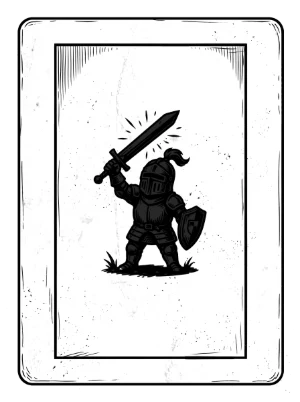
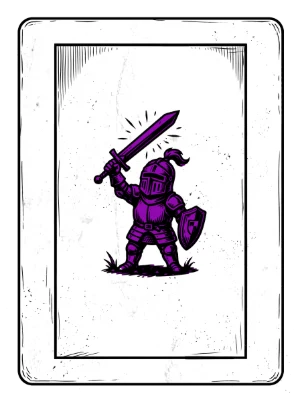
Lançalotte novo, artes de compra por baralho e Sumonar roxo, carta Dado adicional e cartas de ação na fase de ataque

Changed region(s): [[0.3, 0.2687, 0.69, 0.6866], [0.6, 0.3881, 0.63, 0.4179]]

diff --git a/js/interface.js b/js/interface.js
@@ -156,7 +156,8 @@ window.SS = window.SS || {};
     ui.destino = null;
     enviarJogada({ t: 'acao', a: acao });
     M.aplicarAcao(jogo, acao);
-    render();
+    if (ui.voltarAoAtaque && jogo.vencedor == null) voltarAoAtaque();
+    else render();
     ui.vooDe = null;
     if (jogo.vencedor != null) fimDeJogo();
   }
@@ -354,6 +355,7 @@ window.SS = window.SS || {};
       return;
     }
     if (ev.target.closest('#modal') || (ui && ui.ignorarClique)) return;
+    if (ui && ui.ignorarProximoClique) { ui.ignorarProximoClique = false; return; }
     // Refletir: trocar o par (cartas roxas da mão) ou escolher o atacante com a seta roxa.
     if (jogo && ui.reflexoModo) {
       const parEl = ev.target.closest('[data-par]');
@@ -369,6 +371,7 @@ window.SS = window.SS || {};
       // Clique num lugar vazio do tabuleiro: desfaz a seleção de cartas da mão.
       if (jogo && !ui.pend && (ui.sel.length || ui.destino != null) && ev.target.closest('#mesa') && !ev.target.closest('#cartas-acao, #painel')) {
         ui.sel = []; ui.destino = null;
+        if (ui.voltarAoAtaque) return voltarAoAtaque();
         render();
       }
       return;
@@ -403,7 +406,19 @@ window.SS = window.SS || {};
 
   function aoPressionar(ev) {
     if (ev.button !== 0 || !jogo || ev.target.closest('#modal')) return;
+    if (ui) ui.ignorarProximoClique = false; // (o clique depois de fechar uma mira pode nem chegar a acontecer)
     const naMao = ev.target.closest('[data-mao]');
+    // Mirando o Dado adicional: o clique escolhe o Senhor(a); fora dele, desiste.
+    if (ui.miraDado) {
+      if (ev.target.closest('[data-acao]')) { ui.miraDado = null; return; }
+      ev.preventDefault();
+      ui.ignorarProximoClique = true;
+      const loc = unidadeEm(ev.target);
+      if (loc && podeReceberDado(loc.u.uid)) return darDado(loc.u.uid);
+      ui.miraDado = null;
+      return render();
+    }
+    if (naMao && jogo.fase === 'ataque' && humanoAtaca() && ui.miraRei == null && !ui.pend) entrarAcoesNoAtaque();
     if (naMao && jogo.fase === 'principal' && controle(jogo.vez) === 'humano' && !ui.ocupado && !ui.pend) {
       ev.preventDefault();
       return iniciarArrasto(ev, naMao.dataset.mao);
@@ -495,19 +510,82 @@ window.SS = window.SS || {};
       return ui.aoContinuar();
     }
     if (ev.key !== 'Escape' || !jogo) return;
-    ui.sel = []; ui.pend = null; ui.atacanteSel = null; ui.bloqSel = null; ui.mira = null; ui.destino = null; ui.reflexoModo = null; ui.miraRei = null;
+    ui.sel = []; ui.pend = null; ui.atacanteSel = null; ui.bloqSel = null; ui.mira = null; ui.destino = null; ui.reflexoModo = null; ui.miraRei = null; ui.miraDado = null;
+    if (ui.voltarAoAtaque) return voltarAoAtaque();
     render();
   }
 
   function clicarMao(id) {
+    if (jogo.fase === 'ataque' && humanoAtaca() && ui.miraRei == null) entrarAcoesNoAtaque();
     if (jogo.fase !== 'principal' || controle(jogo.vez) !== 'humano') return;
     ui.pend = null;
     const k = ui.sel.indexOf(id);
     if (k >= 0) ui.sel.splice(k, 1);
     else ui.sel.push(id);
     if (!ui.sel.length) ui.destino = null;
+    if (!ui.sel.length && ui.voltarAoAtaque) return voltarAoAtaque();
     // Uma figura (ou Ás) já está esperando no campo: o número clicado completa a jogada.
     if (ui.destino != null && ui.sel.length === 2 && jogarNoDestino()) return;
+    render();
+  }
+
+  // Cartas de ação também valem depois do "Preparar ataque" (antes de confirmar): o jogo volta por um
+  // instante às ações passivas (no online o amigo ainda nem soube do ataque) e, feita a jogada ou
+  // desfeita a seleção, retorna ao ataque com os ataques que você já tinha marcado.
+  function entrarAcoesNoAtaque() {
+    if (jogo.fase !== 'ataque') return;
+    M.voltarAoPrincipal(jogo);
+    ui.voltarAoAtaque = true;
+    ui.atacanteSel = null; ui.mira = null;
+  }
+
+  function voltarAoAtaque() {
+    if (!ui.voltarAoAtaque) return render();
+    ui.voltarAoAtaque = false;
+    ui.sel = []; ui.pend = null; ui.destino = null;
+    if (jogo.fase !== 'principal' || jogo.vencedor != null) return render();
+    M.aplicarAcao(jogo, { tipo: 'atacar' });
+    // A jogada pode ter tirado um atacante (sacrifício), o alvo do Rei ou um Ouros reservado.
+    const aptos = new Set(M.atacantesAptos(jogo)), pool = M.ourosDisponiveis(jogo, jogo.vez).slice();
+    ui.ataques = ui.ataques.filter(a => aptos.has(a.atacante));
+    for (const a of ui.ataques) {
+      if (a.alvo !== 'jogador' && !M.alvosPossiveis(jogo, a.atacante).includes(a.alvo)) a.alvo = 'jogador';
+      a.ouros = a.ouros.filter(o => { const k = pool.indexOf(o); if (k < 0) return false; pool.splice(k, 1); return true; });
+    }
+    render();
+  }
+
+  // Carta "Dado adicional": com um Ouros selecionado, uma seta sai dele até o Senhor(a) que vai rolar
+  // 1 dado a mais. Escolhido, o jogo vai para o ataque (se ainda não estava) e marca o ataque dele.
+  function iniciarDadoAdicional() {
+    const id = ui.sel[0];
+    if (!id) return;
+    const el = id.startsWith('TOKEN#') ? $('[data-token="' + id.slice(6) + '"]') : $('[data-mao="' + id + '"]');
+    ui.miraDado = { ouro: id.startsWith('TOKEN') ? 'TOKEN' : id, de: centroDe(el) || { x: 800, y: 700 } };
+    ui.mouse = Object.assign({}, ui.miraDado.de);
+    render();
+  }
+
+  const podeReceberDado = uid => {
+    const l = M.localizar(jogo, uid);
+    return !!l && l.p === jogo.vez && (jogo.fase === 'ataque' ? M.atacantesAptos(jogo).includes(uid) : M.podeAtacar(jogo, l.p, l.i));
+  };
+
+  function darDado(uid) {
+    const ouro = ui.miraDado.ouro;
+    ui.miraDado = null;
+    if (jogo.fase === 'principal') {
+      if (ui.voltarAoAtaque) voltarAoAtaque();
+      else {
+        ui.sel = []; ui.pend = null; ui.ataques = [];
+        M.aplicarAcao(jogo, { tipo: 'atacar' });
+      }
+    }
+    ui.sel = [];
+    if (!M.atacantesAptos(jogo).includes(uid)) return render();
+    if (!ui.ataques.some(a => a.atacante === uid)) adicionarAtaque(uid, 'jogador');
+    const at = ui.ataques.find(a => a.atacante === uid);
+    if (at && ourosLivres().includes(ouro)) at.ouros.push(ouro);
     render();
   }
 
@@ -645,12 +723,16 @@ window.SS = window.SS || {};
     switch (nome) {
       case 'cancelar':
         ui.sel = []; ui.pend = null; ui.atacanteSel = null; ui.bloqSel = null; ui.destino = null;
+        if (ui.voltarAoAtaque) return voltarAoAtaque();
         return render();
+      case 'dado-adicional':
+        return iniciarDadoAdicional();
       case 'tipo':
         return iniciarPendente(arg);
       case 'ir-ataque':
         // No online o amigo só fica sabendo do ataque quando ele é confirmado (a mensagem "declarar"
         // já leva para a fase de ataque), então dá para voltar atrás sem desencontrar as duas telas.
+        if (ui.voltarAoAtaque) return voltarAoAtaque(); // já estava no ataque: mantém os ataques marcados
         ui.sel = []; ui.pend = null; ui.ataques = [];
         M.aplicarAcao(jogo, { tipo: 'atacar' });
         return render();
@@ -774,7 +856,7 @@ window.SS = window.SS || {};
   }
 
   const mirandoPoder = () => !!(ui && ui.pend && ui.pend.tipo === 'poder' && passoAtual() === 'alvo');
-  const mirandoSeta = () => !!(ui && ((ui.reflexoModo && ui.reflexoModo.etapa === 'alvo') || mirandoPoder() || (ui.miraRei != null && humanoAtaca())));
+  const mirandoSeta = () => !!(ui && ((ui.reflexoModo && ui.reflexoModo.etapa === 'alvo') || mirandoPoder() || ui.miraDado || (ui.miraRei != null && humanoAtaca())));
 
   function desenharSetas() {
     const svg = $('#setas');
@@ -803,6 +885,7 @@ window.SS = window.SS || {};
     }
     // Seta presa no mouse: roxa ao escolher o ataque a refletir; na cor do poder ao escolher o alvo do Palhaço.
     if (ui.mouse && ui.reflexoModo && ui.reflexoModo.etapa === 'alvo') setas.push({ de: ORIGEM_REFLEXO, para: ui.mouse, cor: 'mira-reflexo', viva: true });
+    if (ui.mouse && ui.miraDado) setas.push({ de: ui.miraDado.de, para: ui.mouse, cor: 'mira-ataque', viva: true });
     if (ui.mouse && mirandoPoder()) {
       const de = centroDe($(`#info-${jogo.vez} .poder-naipe`));
       if (de) setas.push({ de, para: ui.mouse, cor: 'mira-poder', viva: true });
@@ -1495,7 +1578,7 @@ window.SS = window.SS || {};
   function renderJogador(p, alvos) {
     const j = jogo.jogadores[p], cor = corDe(p), teto = M.tetoCura(j), pal = palhacoDe(p);
     const quem = controle(p) === 'humano' ? t('ui.voce') : controle(p) === 'remoto' ? t('ui.amigo') : `bot · ${NOME_NIVEL[cfg.nivel]}`;
-    const podeJogar = controle(p) === 'humano' && jogo.vez === p && jogo.fase === 'principal' && !ui.ocupado;
+    const podeJogar = controle(p) === 'humano' && jogo.vez === p && (jogo.fase === 'principal' || jogo.fase === 'ataque') && !ui.ocupado;
     let tokens = '';
     for (let k = 0; k < j.tokens; k++) {
       tokens += `<button class="token${ui.sel.includes('TOKEN#' + k) ? ' selecionada' : ''}" data-token="${k}"${podeJogar ? '' : ' disabled'}>♦ extra</button>`;
@@ -1735,6 +1818,7 @@ window.SS = window.SS || {};
     if (a.tipo === 'sumonar') return a.sacrificio != null ? 'rainha' : 'sumonar';
     if (a.tipo === 'invocarAs') return 'as';
     if (a.tipo === 'magia') return 'par-' + a.naipe;
+    if (a.tipo === 'comprar') return a.baralho === 'letras' ? 'comprarLetra' : 'comprarNumero';
     return a.tipo;
   }
 
@@ -1742,7 +1826,8 @@ window.SS = window.SS || {};
   // O título vem do idioma (a arte não tem texto, por causa da versão em inglês).
   const ARTE_ACAO = { atacar: 'atacar', espadas: 'dano', paus: 'berserk', escudo: 'defesa', curar: 'cura', comprar: 'comprar', reviver: 'cemiterio', sumonar: 'sumonar', rainha: 'sumonar', as: 'sumonar',
     'par-copas': 'cemiterio', 'par-ouros': 'parouros', 'par-paus': 'parpaus', 'par-espadas': 'parespadas', reflexo: 'reflexo',
-    passar: 'passar', preparar: 'preparar', naoDefender: 'naodefender', naoRefletir: 'naodefender' };
+    passar: 'passar', preparar: 'preparar', naoDefender: 'naodefender', naoRefletir: 'naodefender',
+    comprarLetra: 'comprarletra', comprarNumero: 'comprarnumero', dado: 'dado' };
   // Cartas ainda sem arte própria (placeholder): moldura vazia + um desenho simples (SVG) no meio.
   const DESENHO_PROVISORIO = {};
   const btnGrande = (acao, rotulo, icone, extra) => {
@@ -1797,6 +1882,13 @@ window.SS = window.SS || {};
         } else texto = t(jogo.acoes > 0 ? 'faixa.comoJogar' : 'faixa.semAcoes');
         // Passar turno sempre na ponta esquerda; Preparar ataque só se alguém puder atacar neste turno.
         const alguemAtaca = jogo.jogadores[p].campo.some((u, i) => u && M.podeAtacar(jogo, p, i));
+        // Um Ouros sozinho selecionado (carta ou ficha do Ás): também pode virar 1 dado a mais num ataque.
+        const ouroSel = ui.sel.length === 1 && M.ourosDisponiveis(jogo, p).includes(ui.sel[0].startsWith('TOKEN') ? 'TOKEN' : ui.sel[0]);
+        if (ouroSel && alguemAtaca) {
+          botoes += btnGrande('dado-adicional', t('acao.dadoAdicional'), 'dado');
+          if (!botoes.includes('data-acao="tipo:')) texto = t('faixa.escolhaAcao');
+        }
+        if (ui.miraDado) texto = t('faixa.miraDado');
         botoes = btnGrande('passar-turno', t('btn.encerrarTurno'), 'passar')
           + (alguemAtaca ? btnGrande('ir-ataque', t('btn.irAtaque').replace(/^⚔\s*/, ''), 'preparar', 'perigo') : '')
           + botoes;

diff --git a/js/regras.js b/js/regras.js
@@ -96,7 +96,8 @@ window.SS = window.SS || {};
           <tr><td>1 a ${M.DADO_ATAQUE_TOTAL - 1}</td><td>Metade do ataque, arredondada para baixo</td></tr>
         </table>
         <ul>
-          <li><b>Ouros no ataque:</b> cada Ouros gasto dá +1 dado; vale o maior resultado.</li>
+          <li><b>Ouros no ataque:</b> cada Ouros gasto dá +1 dado; vale o maior resultado. Selecione um Ouros na mão e use a carta <b>Dado adicional</b>: a seta escolhe o Senhor(a) que rola o dado a mais.</li>
+          <li><b>Cartas de ação no ataque:</b> depois de Preparar ataque (e antes de confirmar), você ainda pode jogar cartas da mão; os ataques já marcados continuam.</li>
           <li><b>Espadas:</b> +1 de ataque no turno; se o dado der 6, o bônus vira metade do valor da carta de Espadas (crítico).</li>
           <li><b>Sem bloqueio:</b> o dano vai direto no PV. Se o alvo era um Ás, ele é destruído.</li>
           <li><b>Errou!:</b> no ataque direto ao Palhaço sem ninguém defendendo, se o maior dado for <b>1</b> o golpe passa no vento: <b>0 de dano</b> (que vergonha!).</li>
@@ -296,7 +297,8 @@ window.SS = window.SS || {};
           <tr><td>1 to ${M.DADO_ATAQUE_TOTAL - 1}</td><td>Half the attack, rounded down</td></tr>
         </table>
         <ul>
-          <li><b>Diamonds on attack:</b> each Diamond spent gives +1 die; the highest result counts.</li>
+          <li><b>Diamonds on attack:</b> each Diamond spent gives +1 die; the highest result counts. Select a Diamond in your hand and use the <b>Extra die</b> card: the arrow picks the Gentleman that rolls the extra die.</li>
+          <li><b>Action cards while attacking:</b> after Prepare attack (and before confirming) you can still play cards from your hand; the attacks you marked stay.</li>
           <li><b>Spades:</b> +1 attack this turn; if the die shows 6, the bonus becomes half the Spades card's value (critical).</li>
           <li><b>Unblocked:</b> the damage goes straight to HP. If the target was an Ace, it is destroyed.</li>
           <li><b>Miss!:</b> on a direct attack at the Jester with no one blocking, if the highest die is <b>1</b> the blow hits only air: <b>0 damage</b> (shame on you!).</li>

diff --git a/index.html b/index.html
@@ -8,7 +8,7 @@
   <meta http-equiv="Content-Security-Policy" content="default-src 'self'; script-src 'self' https://cdnjs.cloudflare.com https://cdn.jsdelivr.net; style-src 'self' 'unsafe-inline'; img-src 'self' data: blob:; font-src 'self'; connect-src 'self' https://0.peerjs.com wss://0.peerjs.com; object-src 'none'; base-uri 'self'; form-action 'none'; frame-src 'none'">
   <meta name="referrer" content="no-referrer">
   <title data-i18n="jogo.nome">Lady and Gentlemen</title>
-  <link rel="stylesheet" href="estilo.css?v=202610202323">
+  <link rel="stylesheet" href="estilo.css?v=202610210019">
   <script src="https://cdnjs.cloudflare.com/ajax/libs/three.js/r128/three.min.js"></script>
   <script src="https://cdnjs.cloudflare.com/ajax/libs/cannon.js/0.6.2/cannon.min.js"></script>
   <script src="https://cdnjs.cloudflare.com/ajax/libs/peerjs/1.5.4/peerjs.min.js"></script>
@@ -60,16 +60,16 @@
   <div id="modal" hidden></div>
   <div id="dica" hidden></div>
 
-  <script src="js/idioma.js?v=202610202323"></script>
-  <script src="js/motor.js?v=202610202323"></script>
-  <script src="js/palhacos.js?v=202610202323"></script>
-  <script src="js/pesos.js?v=202610202323"></script>
-  <script src="js/bot.js?v=202610202323"></script>
-  <script src="js/cartas.js?v=202610202323"></script>
-  <script src="js/dados3d.js?v=202610202323"></script>
-  <script src="js/decks.js?v=202610202323"></script>
-  <script src="js/regras.js?v=202610202323"></script>
-  <script src="js/rede.js?v=202610202323"></script>
-  <script src="js/interface.js?v=202610202323"></script>
+  <script src="js/idioma.js?v=202610210019"></script>
+  <script src="js/motor.js?v=202610210019"></script>
+  <script src="js/palhacos.js?v=202610210019"></script>
+  <script src="js/pesos.js?v=202610210019"></script>
+  <script src="js/bot.js?v=202610210019"></script>
+  <script src="js/cartas.js?v=202610210019"></script>
+  <script src="js/dados3d.js?v=202610210019"></script>
+  <script src="js/decks.js?v=202610210019"></script>
+  <script src="js/regras.js?v=202610210019"></script>
+  <script src="js/rede.js?v=202610210019"></script>
+  <script src="js/interface.js?v=202610210019"></script>
 </body>
 </html>

diff --git a/js/idioma.js b/js/idioma.js
@@ -322,6 +322,7 @@ window.SS = window.SS || {};
     'faixa.semAcoes': ['Suas ações acabaram. Vá para o ataque.', 'No actions left. Go to attack.'],
     'faixa.ataque': ['Ataque', 'Attack'],
     'faixa.dicaAs': ['para atacar um Ás, arraste até ele', 'to attack an Ace, drag onto it'],
+    'faixa.miraDado': ['Leve a seta até o Senhor(a) que vai rolar 1 dado a mais e clique (fora dele, desiste).', 'Bring the arrow to the Gentleman that will roll 1 extra die and click (clicking elsewhere backs out).'],
     'faixa.miraRei': ['Mire com a seta e clique onde o Rei vai bater (fora de um alvo, desiste).', 'Aim the arrow and click where the King will strike (clicking elsewhere backs out).'],
     'faixa.dicaRei': ['clique no Rei e mire com a seta onde ele vai bater: o Palhaço, um Ás ou um Senhor(a) inimigo (que é obrigado a defender)', 'click the King and aim the arrow where it will strike: the Jester, an Ace or an enemy Gentleman (who must defend)'],
     'faixa.primeiroNaoAtaca': ['Quem começa não ataca no primeiro turno.', "The first player can't attack on the first turn."],
@@ -397,6 +398,10 @@ window.SS = window.SS || {};
     'carta.espadas': ['+1 Ataque', '+1 Attack'],
     'carta.paus': ['Berserk', 'Berserk'],
     'carta.comprar': ['Comprar', 'Draw'],
+    'carta.comprarLetra': ['Comprar letra', 'Draw letter'],
+    'carta.comprarNumero': ['Comprar número', 'Draw number'],
+    'carta.dado': ['Dado adicional', 'Extra die'],
+    'acao.dadoAdicional': ['+1 dado num ataque', '+1 die on an attack'],
     'carta.reviver': ['Reviver', 'Revive'],
     'carta.poder': ['Poder', 'Power'],
     'log.inicioDados': ['Dado para ver quem começa: {a} tirou {da} e {b} tirou {db}. {j} começa.', 'Roll for first player: {a} rolled {da} and {b} rolled {db}. {j} goes first.'],

diff --git a/estilo.css b/estilo.css
@@ -1307,3 +1307,4 @@ html, body { background: #9de03a url('arte/mesa/grama.webp') center / cover; }
   transform: translate(-50%, -50%) rotate(-6deg);
 }
 .arte-passar { --ca-cor: #1f5fd6; } .arte-preparar { --ca-cor: #d8322f; } .arte-naodefender { --ca-cor: #1f5fd6; }
+.arte-sumonar { --ca-cor: #8a10b0; } .arte-comprarletra, .arte-comprarnumero, .arte-dado { --ca-cor: #b98310; }
